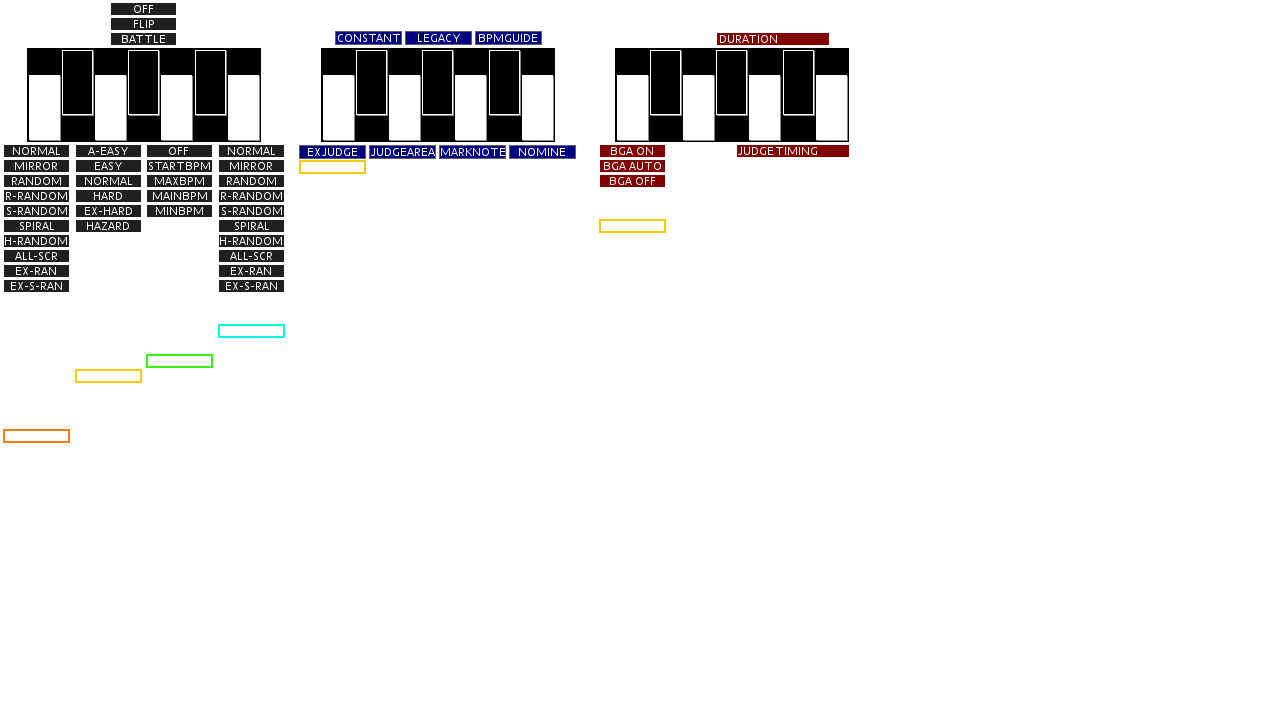
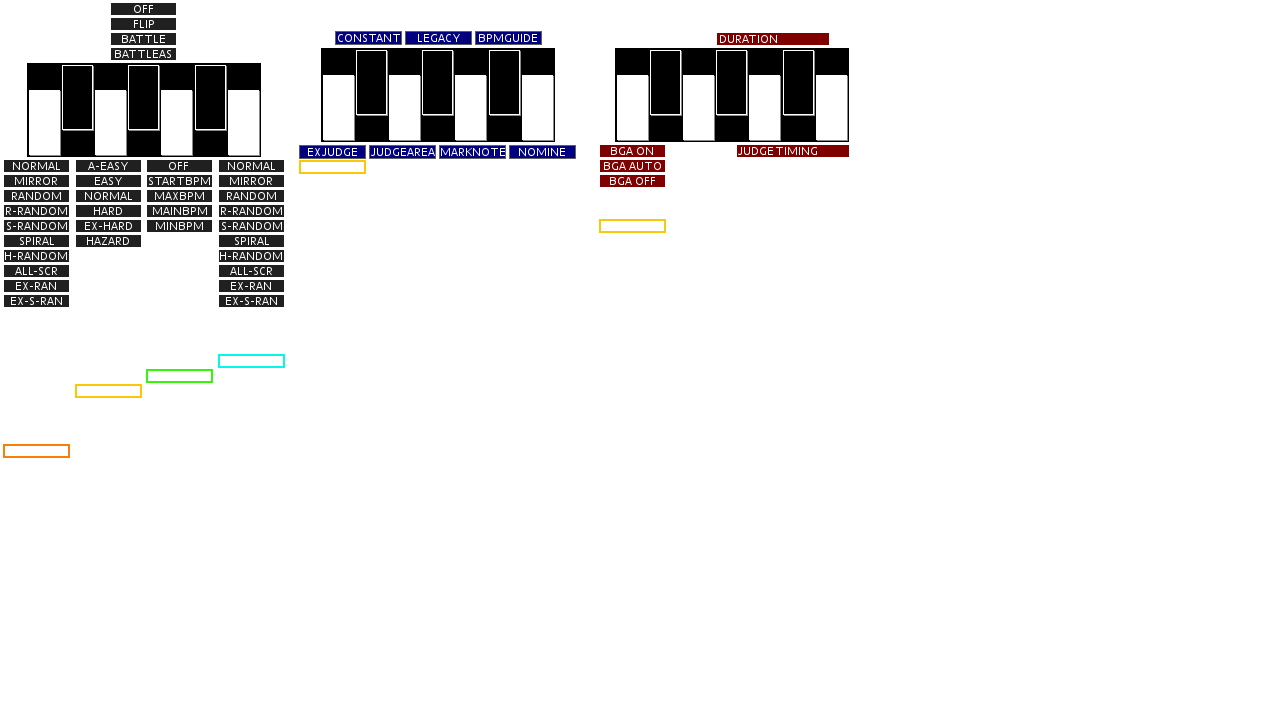
add BATTLE AS (Auto Scratch) to DP option

diff --git a/src/bms/player/beatoraja/play/BMSPlayer.java b/src/bms/player/beatoraja/play/BMSPlayer.java
@@ -158,12 +158,16 @@ public class BMSPlayer extends MainState {
 					score = false;
 				}
 			}
-			if (config.getDoubleoption() == 2 && (model.getMode() == Mode.BEAT_5K || model.getMode() == Mode.BEAT_7K)) {
+			if (config.getDoubleoption() >= 2 && (model.getMode() == Mode.BEAT_5K || model.getMode() == Mode.BEAT_7K)) {
 				// SPでなければBATTLEは未適用
 				model.setMode(model.getMode() == Mode.BEAT_5K ? Mode.BEAT_10K : Mode.BEAT_14K);
 				LaneShuffleModifier mod = new LaneShuffleModifier(LaneShuffleModifier.BATTLE);
 				mod.setModifyTarget(PatternModifier.SIDE_1P);
 				mod.modify(model);
+				if(config.getDoubleoption() == 3) {
+					PatternModifier as = new AutoplayModifier(model.getMode().scratchKey);
+					as.modify(model);
+				}
 				assist = 1;
 				score = false;
 			}

diff --git a/src/bms/player/beatoraja/launcher/PlayConfigurationView.java b/src/bms/player/beatoraja/launcher/PlayConfigurationView.java
@@ -241,7 +241,7 @@ public class PlayConfigurationView implements Initializable {
 				"ALL-SCR", "RANDOM-EX", "S-RANDOM-EX" };
 		initComboBox(scoreop, scoreOptions);
 		initComboBox(scoreop2, scoreOptions);
-		initComboBox(doubleop, new String[] { "OFF", "FLIP", "BATTLE" });
+		initComboBox(doubleop, new String[] { "OFF", "FLIP", "BATTLE", "BATTLE AS" });
 		initComboBox(gaugeop, new String[] { "ASSIST EASY", "EASY", "NORMAL", "HARD", "EX-HARD", "HAZARD" });
 		initComboBox(bgaop, new String[] { "ON", "AUTOPLAY ", "OFF" });
 		initComboBox(bgaexpand, new String[] { "Full", "Keep Aspect Ratio", "Off" });

diff --git a/src/bms/player/beatoraja/select/MusicSelectCommand.java b/src/bms/player/beatoraja/select/MusicSelectCommand.java
@@ -134,7 +134,7 @@ public enum MusicSelectCommand {
         @Override
         public void execute(MusicSelector selector) {
             PlayerConfig config = selector.getMainController().getPlayerConfig();
-            config.setDoubleoption((config.getDoubleoption() + 1) % 3);
+            config.setDoubleoption((config.getDoubleoption() + 1) % 4);
             selector.play(SOUND_CHANGEOPTION);
         }
     },
